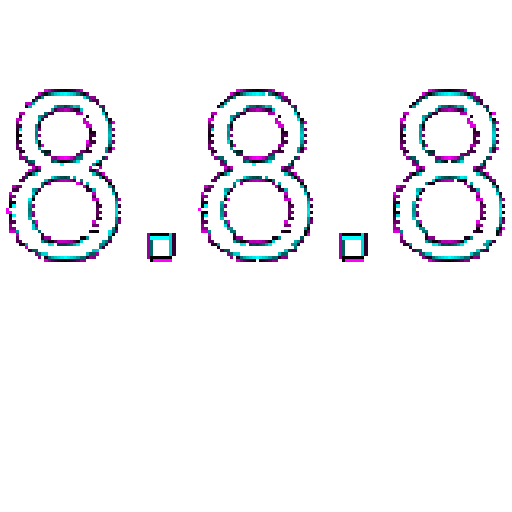
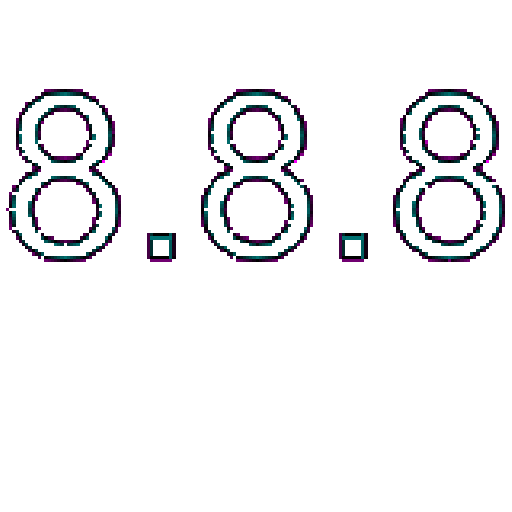
closure and no closure comparison

diff --git a/glyphrunBC/borderpolyline.cpp b/glyphrunBC/borderpolyline.cpp
@@ -37,9 +37,12 @@ static double rfpart1_0(double x)
 	return 1.0 - x + std::floor(x);
 }
 
-static void setpixel(std::vector<std::pair<std::pair<int, int>, double>>& va, int x, int y, double c)
+static void setpixel(int x, int y, double c, std::vector<std::pair<std::pair<int, int>, double>>& va, array2D<double>& fld)
 {
 	va.emplace_back(std::make_pair(std::make_pair(x, y), c));
+	auto f = fld(x, y);
+	if (std::isnan(f) || (f >= 0 && c >= 0 && f < c) || (f <= 0 && c <= 0 && f > c))
+		fld(x, y) = c;
 }
 
 void drawEdge(double x1, double y1, double x2, double y2, std::vector<std::pair<std::pair<int, int>, double>>& va, array2D<double>& fld)
@@ -89,48 +92,63 @@ void drawEdge(double x1, double y1, double x2, double y2, std::vector<std::pair<
 	double intery = yisect;
 
 	// EP1
-		V2D<double> linevec(x2 - x1, y2 - y1), eppxl(ix1 - x1, iy1 - y1);
+	V2D<double> linevec(x2 - x1, y2 - y1), eppxl(ix1 - x1, iy1 - y1);
+	auto proj = linevec * eppxl;
+	int iintery = static_cast<int>(intery);
+	if (swapped)
+	{
+		V2D<double> linevec(y2 - y1, x2 - x1), eppxl(iy1 - y1, ix1 - x1);
 		auto proj = linevec * eppxl;
-		setpixel(va, -ix1, -static_cast<int>(intery), proj);
-		eppxl.y += 1.0;
-		proj = linevec * eppxl;
-		setpixel(va, -ix1, -static_cast<int>(intery) - 1, proj);
-		int iintery = static_cast<int>(intery);
-		if (swapped)
+		if (proj >= 0)
 		{
-			V2D<double> linevec(y2 - y1, x2 - x1), eppxl(iy1 - y1, ix1 - x1);
-			auto proj = linevec * eppxl;
-			if (proj >= 0)
-			{
-				setpixel(va, iintery, ix1, -fpart(intery) * cosgrad);
-				fld(iintery, ix1) = -fpart(intery) * cosgrad;
-			}
-			eppxl.y += 1.0;
-			proj = linevec * eppxl;
-			if (proj >= 0)
-			{
-				setpixel(va, iintery + 1, ix1, rfpart1_0(intery) * cosgrad);
-				fld(iintery + 1, ix1) = rfpart(intery) * cosgrad;
-			}
+			setpixel(iintery, ix1, -fpart(intery) * cosgrad, va, fld);
 		}
 		else
 		{
-			V2D<double> linevec(x2 - x1, y2 - y1), eppxl(ix1 - x1, iy1 - y1);
-			auto proj = linevec * eppxl;
-			if (proj >= 0)
-			{
-				setpixel(va, ix1, iintery, fpart(intery) * cosgrad);
-				fld(ix1, iintery) = fpart(intery) * cosgrad;
-			}
-			eppxl.y += 1.0;
-			proj = linevec * eppxl;
-			if (proj >= 0)
-			{
-				setpixel(va, ix1, iintery + 1, -rfpart1_0(intery) * cosgrad);
-				fld(ix1, iintery + 1) = -rfpart1_0(intery) * cosgrad;
-			}
+			auto dist = sqrt(iintery - y1) * (iintery - y1) + (ix1 - x1) * (ix1 - x1);
+			dist = copysign(dist, -fpart(intery) * cosgrad);
+			setpixel(iintery, ix1, dist, va, fld);
 		}
-		intery += gradient;
+		eppxl.y += 1.0;
+		proj = linevec * eppxl;
+		if (proj >= 0)
+		{
+			setpixel(iintery + 1, ix1, rfpart1_0(intery) * cosgrad, va, fld);
+		}
+		else
+		{
+			auto dist = sqrt(iintery + 1 - y1) * (iintery + 1 - y1) + (ix1 - x1) * (ix1 - x1);
+			dist = copysign(dist, rfpart1_0(intery) * cosgrad);
+		}
+	}
+	else
+	{
+		V2D<double> linevec(x2 - x1, y2 - y1), eppxl(ix1 - x1, iy1 - y1);
+		auto proj = linevec * eppxl;
+		if (proj >= 0)
+		{
+			setpixel(ix1, iintery, fpart(intery) * cosgrad, va, fld);
+		}
+		else
+		{
+			auto dist = sqrt(iintery - y1) * (iintery - y1) + (ix1 - x1) * (ix1 - x1);
+			dist = copysign(dist, fpart(intery) * cosgrad);
+			setpixel(ix1, iintery, dist, va, fld);
+		}
+		eppxl.y += 1.0;
+		proj = linevec * eppxl;
+		if (proj >= 0)
+		{
+			setpixel(ix1, iintery + 1, -rfpart1_0(intery) * cosgrad, va, fld);
+		}
+		else
+		{
+			auto dist = sqrt(iintery + 1 - y1) * (iintery + 1 - y1) + (ix1 - x1) * (ix1 - x1);
+			dist = copysign(dist, -rfpart1_0(intery) * cosgrad);
+			setpixel(ix1, iintery, dist, va, fld);
+		}
+	}
+	intery += gradient;
 
 	// Add all the points between the endpoints /// SET PXL VALUE SIGNS!!!
 	if (backward)
@@ -140,17 +158,13 @@ void drawEdge(double x1, double y1, double x2, double y2, std::vector<std::pair<
 			int iintery = static_cast<int>(intery);
 			if (swapped)
 			{
-				setpixel(va, iintery, x, -fpart(intery) * cosgrad);
-				fld(iintery, x) = -fpart(intery) * cosgrad;
-				setpixel(va, iintery + 1, x, rfpart1_0(intery) * cosgrad);
-				fld(iintery + 1, x) = rfpart1_0(intery) * cosgrad;
+				setpixel(iintery, x, -fpart(intery) * cosgrad, va, fld);
+				setpixel(iintery + 1, x, rfpart1_0(intery) * cosgrad, va, fld);
 			}
 			else
 			{
-				setpixel(va, x, iintery, fpart(intery) * cosgrad);
-				fld(x, iintery) = fpart(intery) * cosgrad;
-				setpixel(va, x, iintery + 1, -rfpart1_0(intery) * cosgrad);
-				fld(x, iintery + 1) = -rfpart1_0(intery) * cosgrad;
+				setpixel(x, iintery, fpart(intery) * cosgrad, va, fld);
+				setpixel(x, iintery + 1, -rfpart1_0(intery) * cosgrad, va, fld);
 			}
 			intery += gradient;
 		}
@@ -162,17 +176,13 @@ void drawEdge(double x1, double y1, double x2, double y2, std::vector<std::pair<
 			int iintery = static_cast<int>(intery);
 			if (swapped)
 			{
-				setpixel(va, iintery, x, -fpart(intery) * cosgrad);
-				fld(iintery, x) = -fpart(intery) * cosgrad;
-				setpixel(va, iintery + 1, x, rfpart1_0(intery) * cosgrad);
-				fld(iintery + 1, x) = rfpart1_0(intery) * cosgrad;
+				setpixel(iintery, x, -fpart(intery) * cosgrad, va, fld);
+				setpixel(iintery + 1, x, rfpart1_0(intery) * cosgrad, va, fld);
 			}
 			else
 			{
-				setpixel(va, x, iintery, fpart(intery) * cosgrad);
-				fld(x, iintery) = fpart(intery) * cosgrad;
-				setpixel(va, x, iintery + 1, -rfpart1_0(intery) * cosgrad);
-				fld(x, iintery + 1) = -rfpart1_0(intery) * cosgrad;
+				setpixel(x, iintery, fpart(intery) * cosgrad, va, fld);
+				setpixel(x, iintery + 1, -rfpart1_0(intery) * cosgrad, va, fld);
 			}
 			intery += gradient;
 		}
@@ -184,10 +194,6 @@ void drawEdge(double x1, double y1, double x2, double y2, std::vector<std::pair<
 
 	V2D<double> linevecc(x1 - x2, y1 - y2), eppxlc(ix2 - x2, iy2 - y2);
 	proj = linevecc * eppxlc;
-	setpixel(va, -ix2, -static_cast<int>(intery), proj);
-	eppxlc.y += 1.0;
-	proj = linevecc * eppxlc;
-	setpixel(va, -ix2, -static_cast<int>(intery) - 1, proj);
 
 	if (swapped)
 	{
@@ -195,15 +201,25 @@ void drawEdge(double x1, double y1, double x2, double y2, std::vector<std::pair<
 		auto proj = linevec * eppxl;
 		if (proj >= 0)
 		{
-			setpixel(va, iintery, ix2, -fpart(intery) * cosgrad);
-			fld(iintery, ix2) = -fpart(intery) * cosgrad;
+			setpixel(iintery, ix2, -fpart(intery) * cosgrad, va, fld);
+		}
+		else
+		{
+			auto dist = sqrt(iintery - y2) * (iintery - y2) + (ix2 - x2) * (ix2 - x2);
+			dist = copysign(dist, -fpart(intery) * cosgrad);
+			setpixel(iintery, ix2, dist, va, fld);
 		}
 		eppxl.y += 1.0;
 		proj = linevec * eppxl;
 		if (proj >= 0)
 		{
-			setpixel(va, iintery + 1, ix2, rfpart1_0(intery) * cosgrad);
-			fld(iintery + 1, ix2) = -fpart(intery) * cosgrad;
+			setpixel(iintery + 1, ix2, rfpart1_0(intery) * cosgrad, va, fld);
+		}
+		else
+		{
+			auto dist = sqrt(iintery + 1 - y2) * (iintery + 1 - y2) + (ix2 - x2) * (ix2 - x2);
+			dist = copysign(dist, rfpart1_0(intery) * cosgrad);
+			setpixel(iintery + 1, ix2, dist, va, fld);
 		}
 	}
 	else
@@ -212,16 +228,43 @@ void drawEdge(double x1, double y1, double x2, double y2, std::vector<std::pair<
 		auto proj = linevec * eppxl;
 		if (proj >= 0)
 		{
-			setpixel(va, ix2, iintery, fpart(intery) * cosgrad);
-			fld(ix2, iintery) = fpart(intery) * cosgrad;
+			setpixel(ix2, iintery, fpart(intery) * cosgrad, va, fld);
+		}
+		else
+		{
+			auto dist = sqrt(iintery - y2) * (iintery - y2) + (ix2 - x2) * (ix2 - x2);
+			dist = copysign(dist, fpart(intery) * cosgrad);
+			setpixel(ix2, iintery, dist, va, fld);
 		}
 		eppxl.y += 1.0;
 		proj = linevec * eppxl;
 		if (proj >= 0)
 		{
-			setpixel(va, ix2, iintery + 1, -rfpart1_0(intery) * cosgrad);
-			fld(ix2, iintery + 1) = -rfpart(intery) * cosgrad;
+			setpixel(ix2, iintery + 1, -rfpart1_0(intery) * cosgrad, va, fld);
+		}
+		else
+		{
+			auto dist = sqrt(iintery + 1 - y2) * (iintery + 1 - y2) + (ix2 - x2) * (ix2 - x2);
+			dist = copysign(dist, -rfpart1_0(intery) * cosgrad);
+			setpixel(ix2, iintery + 1, dist, va, fld);
 		}
 	}
 	intery += gradient;
+}
+
+void closureBorderline(std::vector<std::pair<double, double>>& vertices, array2D<double>& fld)
+{
+	for (auto vertex : vertices)
+	{
+		double x = vertex.first, y = vertex.second;
+		int ix = static_cast<int>(x), iy = static_cast<int>(y);
+		if (std::isnan(fld(ix, iy)))
+			fld(ix, iy) = -sqrt((ix - x) * (ix - x) + (iy - y) * (iy - y));
+		if (std::isnan(fld(ix + 1, iy)))
+			fld(ix + 1, iy) = -sqrt((ix + 1 - x) * (ix + 1 - x) + (iy - y) * (iy - y));
+		if (std::isnan(fld(ix, iy + 1)))
+			fld(ix, iy + 1) = -sqrt((ix - x) * (ix - x) + (iy + 1 - y) * (iy + 1 - y));
+		if (std::isnan(fld(ix + 1, iy + 1)))
+			fld(ix + 1, iy + 1) = -sqrt((ix + 1 - x) * (ix + 1 - x) + (iy + 1 - y) * (iy + 1 - y));
+	}
 }

diff --git a/glyphrunBC/glyphrunBC.cpp b/glyphrunBC/glyphrunBC.cpp
@@ -37,10 +37,11 @@ int main()
     array2D<double> fld(datavec, WIDTH, HEIGHT);
 
     std::vector<std::pair<std::pair<int, int>, double>> va;
+    std::vector<std::pair<double, double>> vertices;
 
     cairo_surface_t* surface = cairo_image_surface_create(CAIRO_FORMAT_RGB24, WIDTH, HEIGHT);
     cairo_t* cr = cairo_create(surface);
-    //cairo_set_tolerance(cr, 0.1);
+    cairo_set_tolerance(cr, 0.5);
     cairo_matrix_t matrix{ 1, 0, 0, 1, 0, HEIGHT / 2 };
     cairo_transform(cr, &matrix);
 
@@ -115,20 +116,24 @@ int main()
             std::cout << "MOVE_TO " << data[1].point.x << ", " << data[1].point.y << '\n';
             x = xbegin = data[1].point.x;
             y = ybegin = data[1].point.y + HEIGHT/2;
+            vertices.emplace_back(std::make_pair(x, y));
             break;
         case CAIRO_PATH_LINE_TO:
             drawEdge(x, y, data[1].point.x, data[1].point.y + HEIGHT/2, va, fld);
             len2 = (x - data[1].point.x) * (x - data[1].point.x) + (y - HEIGHT/2 - data[1].point.y) * (y - HEIGHT/2 - data[1].point.y);
-            std::cout << data[1].point.x << ", " << data[1].point.y << " len^2 = " << len2 << '\n';
+            //std::cout << data[1].point.x << ", " << data[1].point.y << " len^2 = " << len2 << '\n';
             x = data[1].point.x;
             y = data[1].point.y + HEIGHT/2;
+            vertices.emplace_back(std::make_pair(x, y));
             break;
         case CAIRO_PATH_CURVE_TO:
             std::cout << "curve!\n";
             break;
         case CAIRO_PATH_CLOSE_PATH:
             drawEdge(x, y, xbegin, ybegin, va, fld);
+            //closureBorderline(vertices, fld);
             va.clear();
+            vertices.clear();
             std::cout << "close!\n";
             break;
         }
@@ -148,11 +153,11 @@ int main()
 
     display(WIDTH, HEIGHT, fld.buffer().data(), L"glyphrunBC.png");
     double fldvalsign = 1.0;
-    for (int Y = 0; Y < HEIGHT; ++Y)
+    for (int X = 0; X < WIDTH; ++X)
     {
-        for (int X = 0; X < WIDTH; ++X)
+        for (int Y = 0; Y < WIDTH; ++Y)
         {
-            if (!std::isnan(fld(X, Y)) && fld(X, Y) * fldvalsign <= 0)
+            if (!std::isnan(fld(X, Y)) && fld(X, Y) * fldvalsign < 0)
             {
                 fldvalsign = -fldvalsign;
             }

diff --git a/glyphrunBC/borderpolyline.h b/glyphrunBC/borderpolyline.h
@@ -29,3 +29,5 @@ private:
 };
 
 void drawEdge(double x1, double y1, double x2, double y2, std::vector<std::pair<std::pair<int, int>, double>>& va, array2D<double>& fld);
+
+void closureBorderline(std::vector<std::pair<double, double>>& vertices, array2D<double>& fld);
